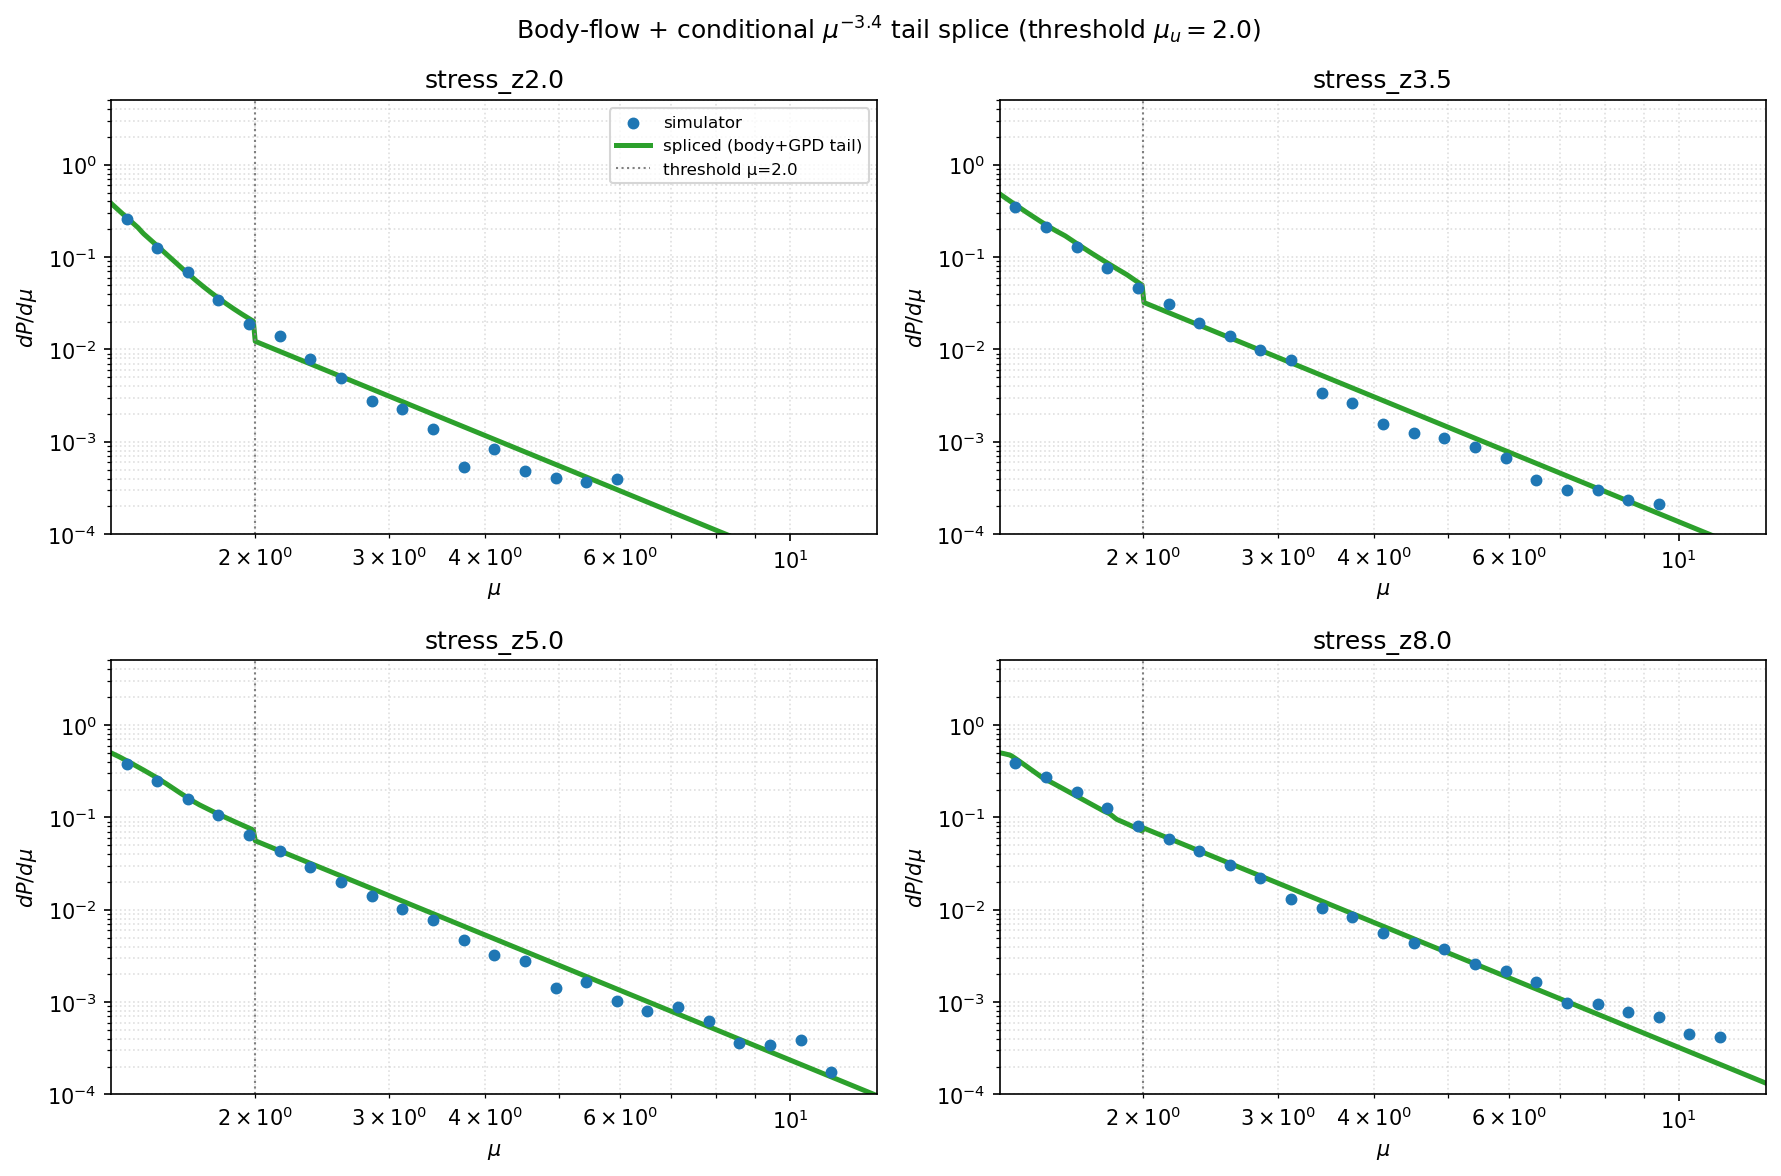
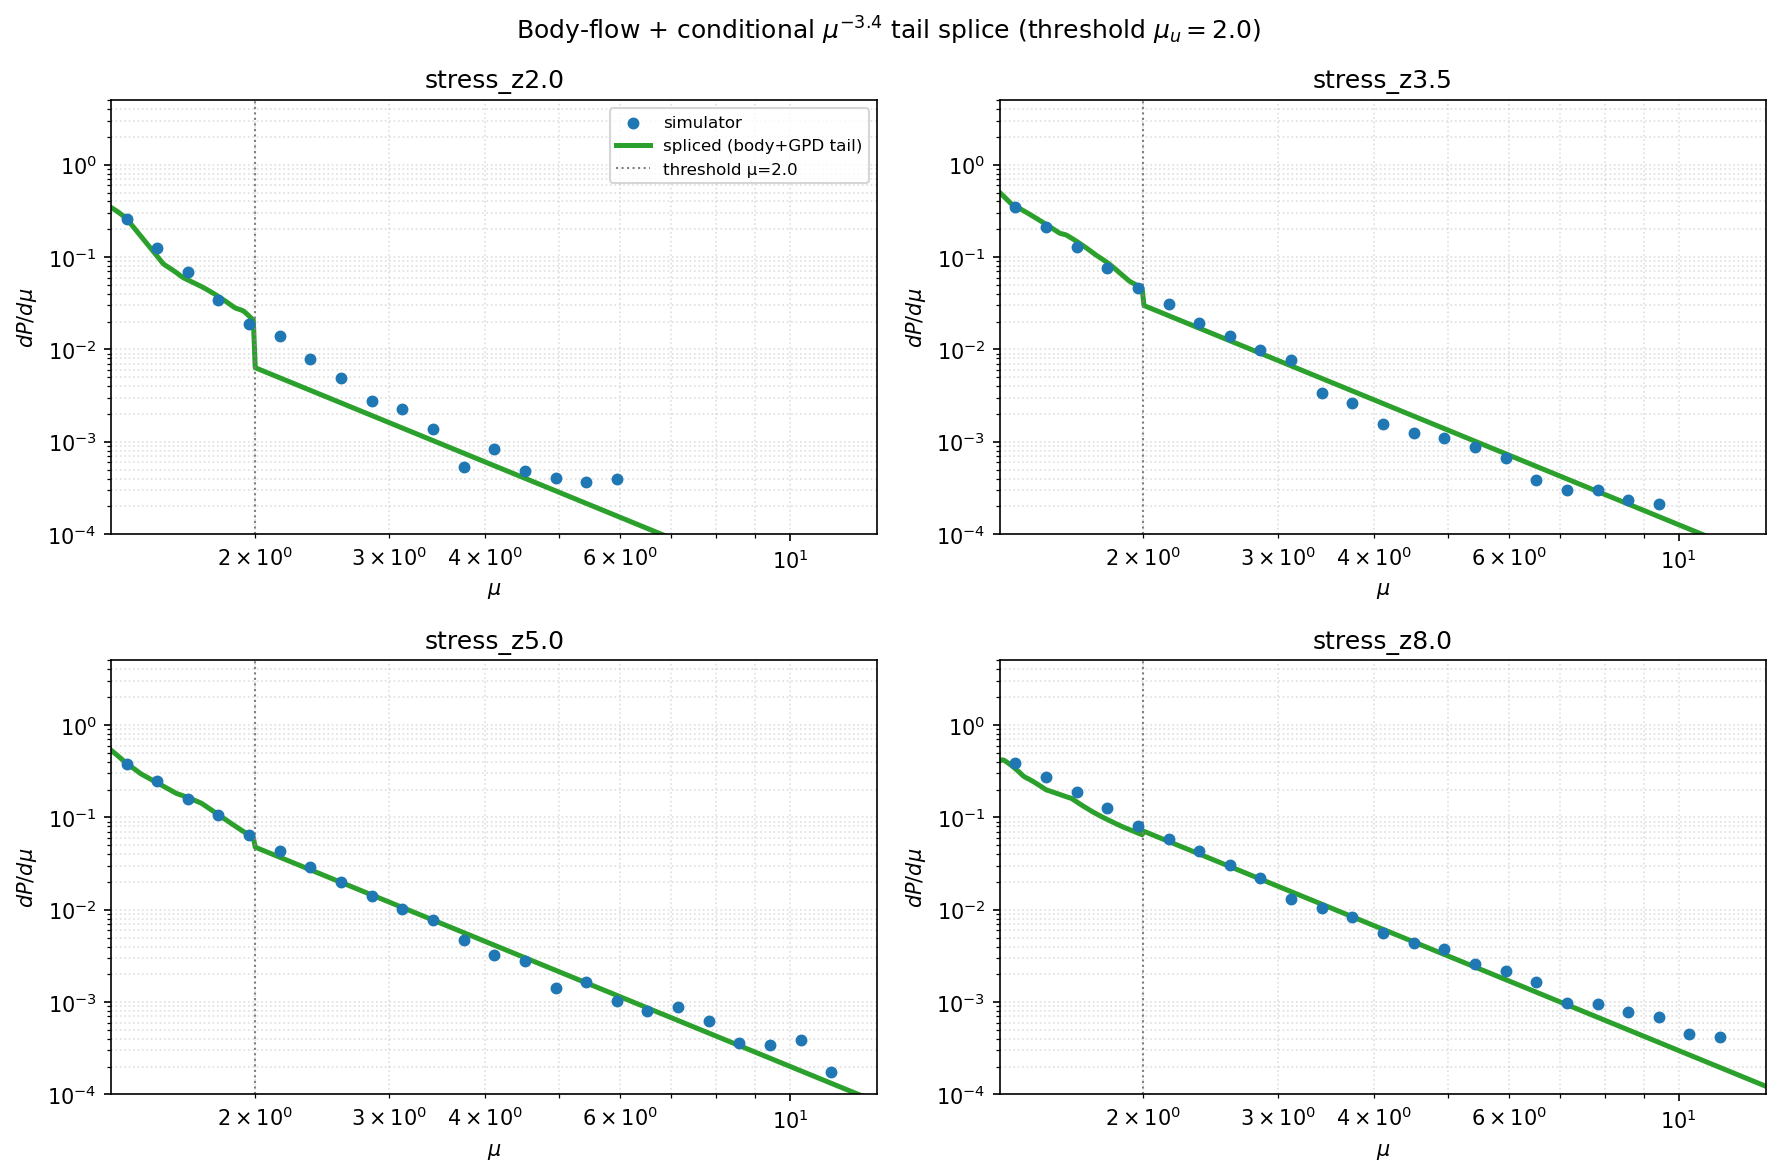
merge datasets (old broad coverage + tail-rich) for body flow conditioning + tail signal

diff --git a/ml/autoresearch/train_ar.py b/ml/autoresearch/train_ar.py
@@ -64,7 +64,7 @@ CONFIG = dict(
     seed=0,
     n_subsample=5000000,  # subsample train for speed (body is over-sampled)
 )
-DATASET_DIR = "datasets_tailrich"
+DATASET_DIR = ["datasets_logz_1k", "datasets_tailrich"]
 AR_DIR = Path(__file__).resolve().parent
 STATS_PATH = AR_DIR / "cache" / "stats_logz.json"
 MODEL_PATH = AR_DIR / "models" / "flow_ar.pt"
@@ -90,10 +90,18 @@ def build_flow(cfg) -> nn.Module:
 
 
 def load_standardized(cfg):
-    ds = load_dataset(DATASET_DIR)
-    Xtr, Ytr = flatten_dataset(ds["train"], normalize=False)
-    Xva, Yva = (flatten_dataset(ds["validation"], normalize=False)
-                if "validation" in ds else (Xtr, Ytr))
+    dirs = DATASET_DIR if isinstance(DATASET_DIR, (list, tuple)) else [DATASET_DIR]
+    Xtr_l, Ytr_l, Xva_l, Yva_l = [], [], [], []
+    for d in dirs:
+        ds = load_dataset(d)
+        xt, yt = flatten_dataset(ds["train"], normalize=False)
+        Xtr_l.append(xt); Ytr_l.append(yt)
+        if "validation" in ds:
+            xv, yv = flatten_dataset(ds["validation"], normalize=False)
+            Xva_l.append(xv); Yva_l.append(yv)
+    Xtr = np.concatenate(Xtr_l); Ytr = np.concatenate(Ytr_l)
+    Xva = np.concatenate(Xva_l) if Xva_l else Xtr
+    Yva = np.concatenate(Yva_l) if Yva_l else Ytr
     cmean = Xtr.mean(0, dtype=np.float64); cstd = Xtr.std(0, dtype=np.float64)
     cstd[cstd == 0] = 1.0
     lmean = float(Ytr.mean(dtype=np.float64)); lstd = float(Ytr.std(dtype=np.float64)) or 1.0
